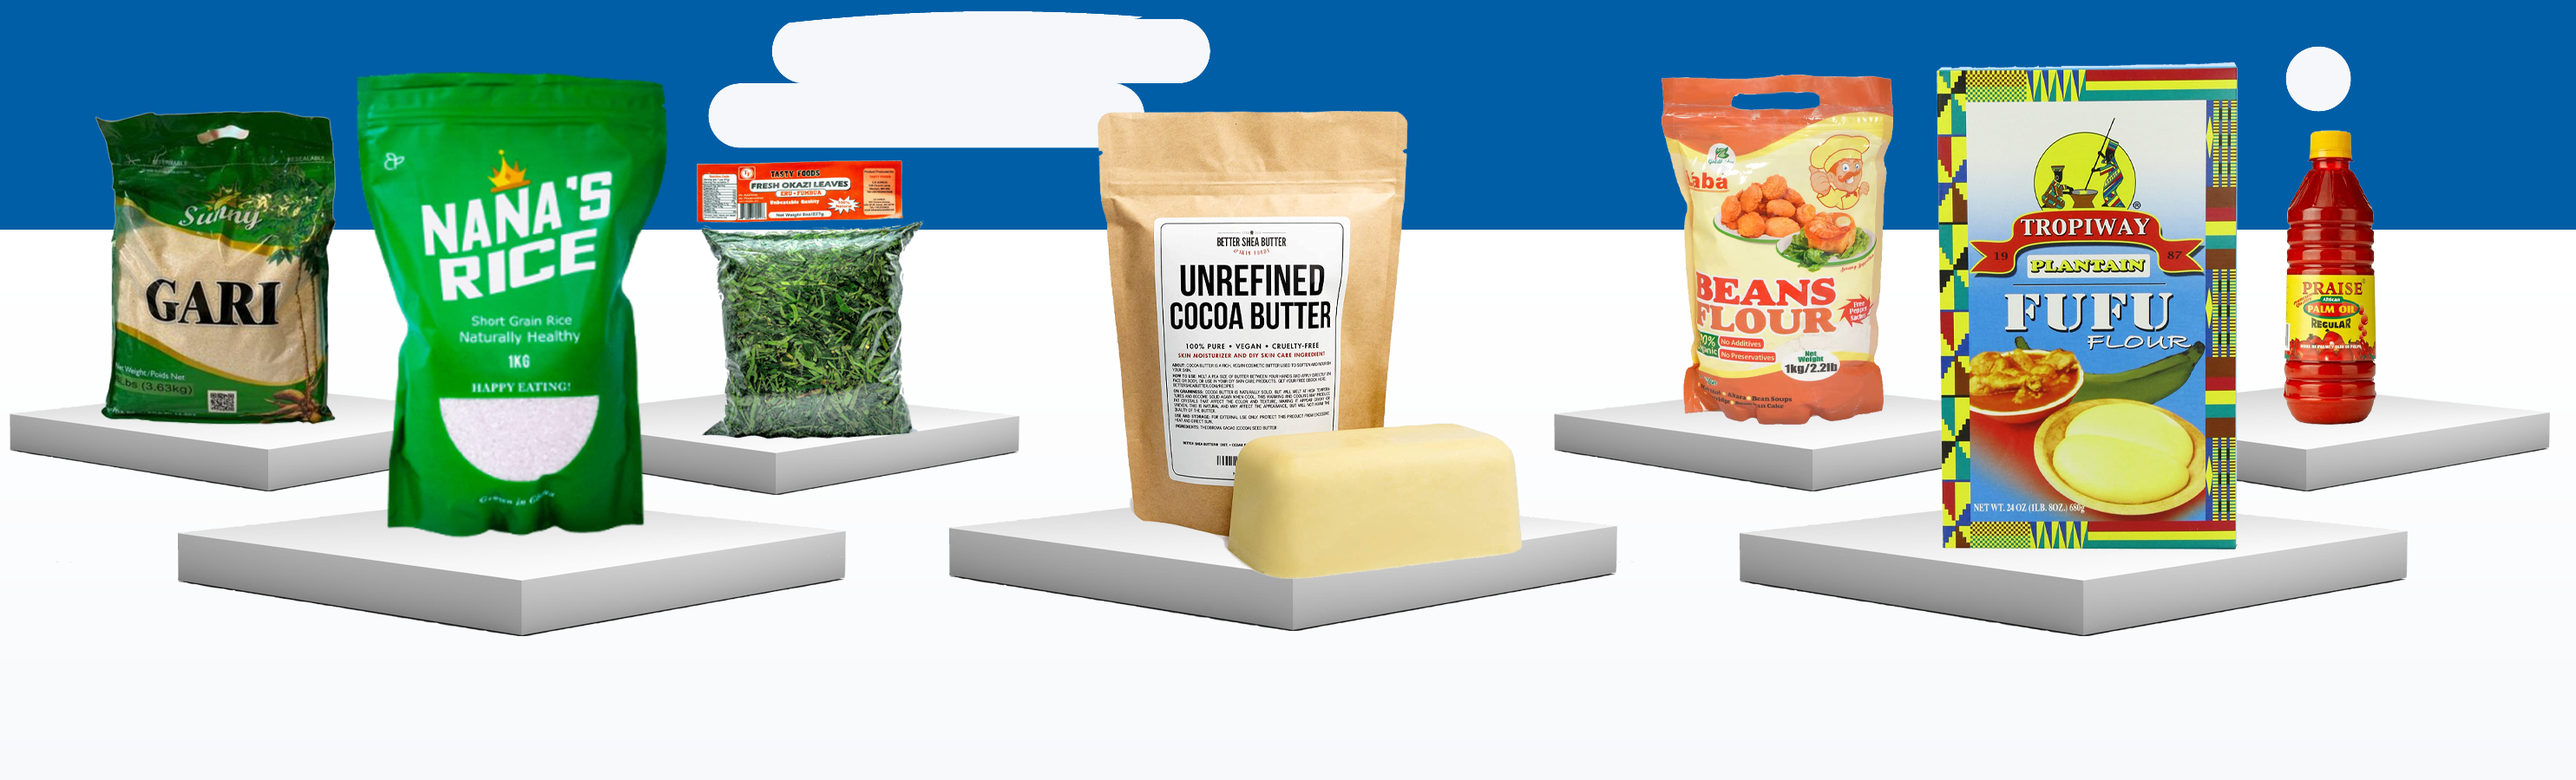
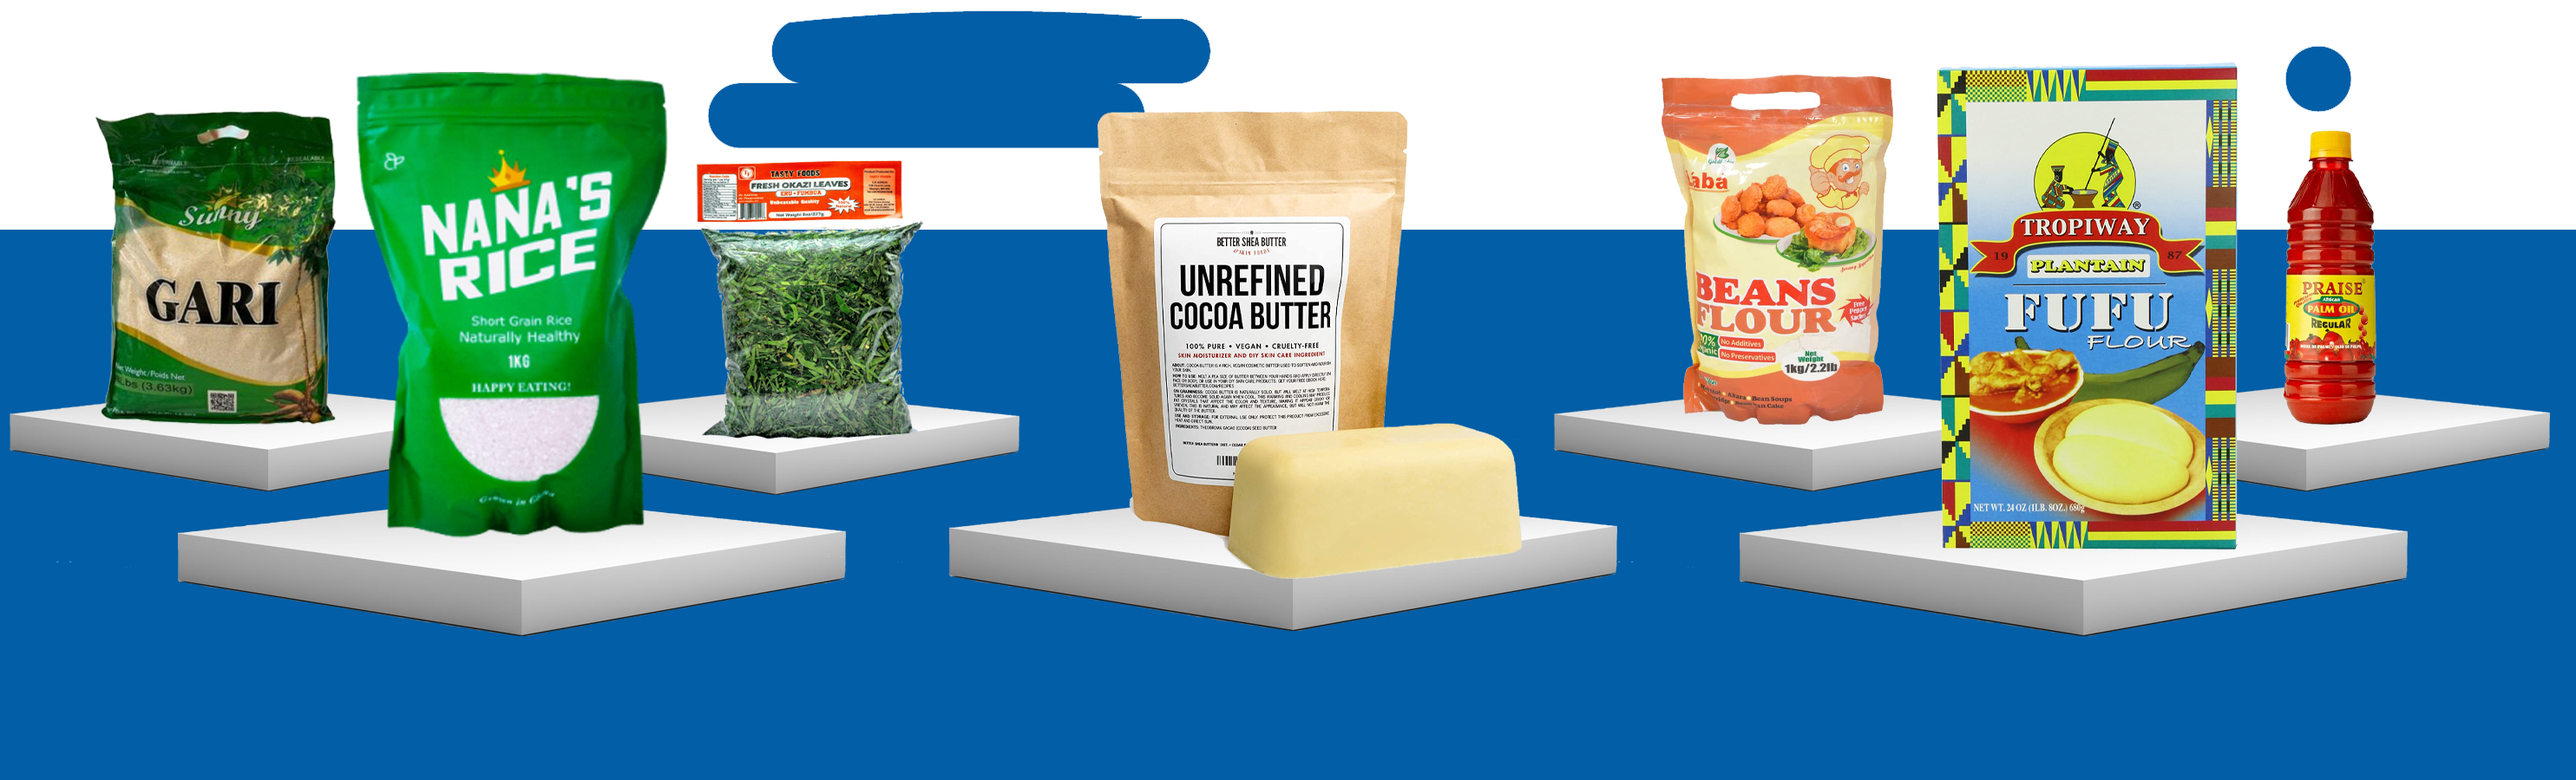
Develop Africa 2

diff --git a/public_html/assets/css/style.css b/public_html/assets/css/style.css
@@ -895,6 +895,8 @@ audio {
 
 #index #masthead {
   height: auto !important;
+  background-color:#025ea6;
+  color:#fff;
 }
 
 #box #masthead {
@@ -1886,9 +1888,9 @@ audio {
   font-weight: 100;
 }
 
-#headline h1 {
-  color: #0c8dc4;
-  font-size: 5em;
+#headline_h1 {
+  color:#ffeb3b;
+  font-size: 4em;
 
 }
 
@@ -2678,7 +2680,7 @@ footer {
 }
 
 .display-inline {
-  display: inline;
+  display: inline !important;
 }
 
 .display-grid {

diff --git a/public_html/css/app.css b/public_html/css/app.css
@@ -541,8 +541,8 @@ audio,
 iframe,
 embed,
 object {
-  display: block; /* 1 */
-  vertical-align: middle; /* 2 */
+ // display: block; /* 1 */
+ // vertical-align: middle; /* 2 */
 }
 
 /**

diff --git a/laravel/resources/views/errors/503.blade.php b/laravel/resources/views/errors/503.blade.php
@@ -20,9 +20,9 @@
             </div>
             <aside class="centered asides call-out">
                
-                <h2 id="headline-h1" class="center centered ginormous">The Best Platform For Creators To Earn Liberating, Sustainable, Monthly Income, Is Coming To America</h2>
+                <h2 id="headline_h1" class="font-size-3-em center centered">Develop Africa without leaving your couch&nbsp;<span class="display-inline"><img src="../assets/images/us-flag-icon.png" alt="USA Flag"/></span></h2>
                 <br>
-                <p class="centered center font-1-5-em">Boxeon is geared to allow content creators to make money on Youtube by promoting our subscription boxes as a monthly remote job. You promote. We do the rest. A percent of sales will be donated to African children in need.</p>
+                <p class="white centered center font-1-5-em">The Amazon of African foods is coming to America soon. Our aim is to make African foods popular in America to help spark industrial revolutions on the African continent. Join our waiting list to keep informed.</p>
             </aside>
             <br>
             <br>
@@ -31,8 +31,7 @@
         <main id='margin-top-45-e'> <a id='whatis' href='#whatis'></a>
 
             <section class="wide section padding-top-6-em">
-                <h2 class='centered white margin-bottom-0'>Be first to know when we launch.</h2>
-                <h2 class='centered white margin-bottom-0'>Join our waiting list.</h2>
+                <h2 class='centered white margin-bottom-0'>Be first to know when we launch. Join our waiting list.</h2>
                 <div class="new-section-inner-grid margin-bottom-2-em">
                     <span class="503-hide"></span>
                     <div>
